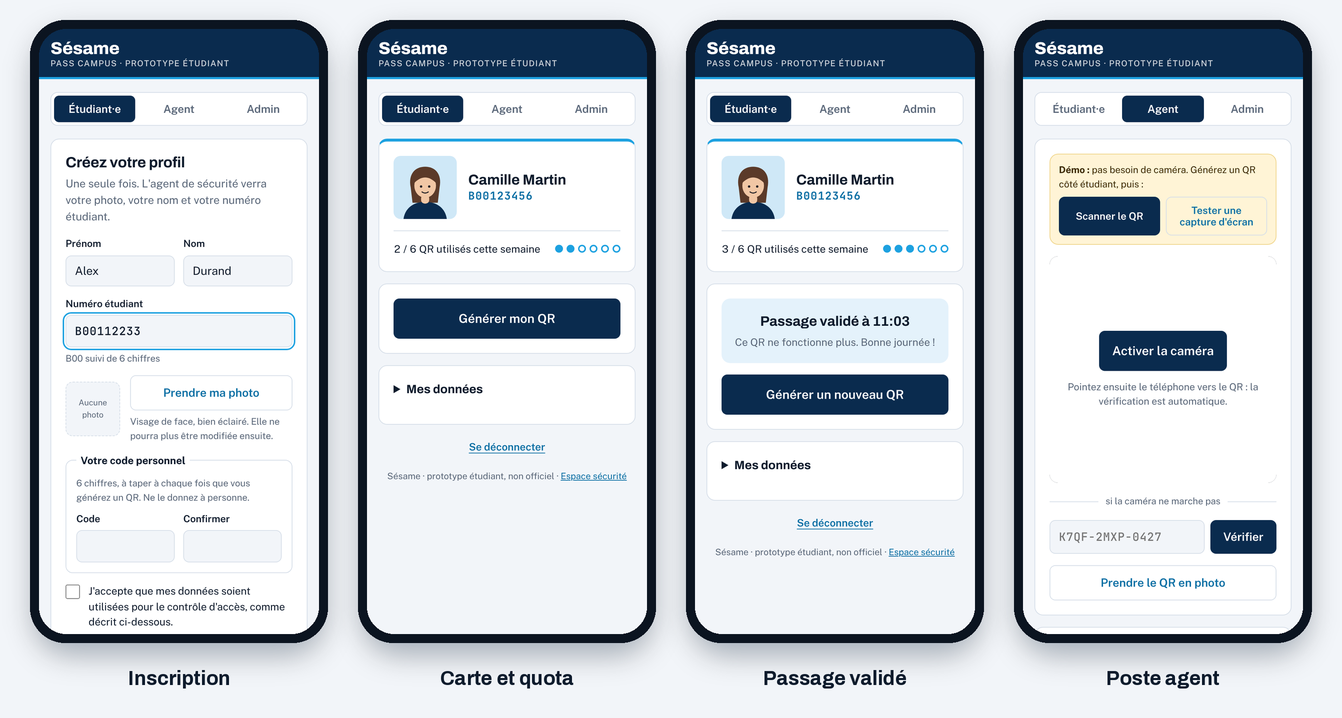
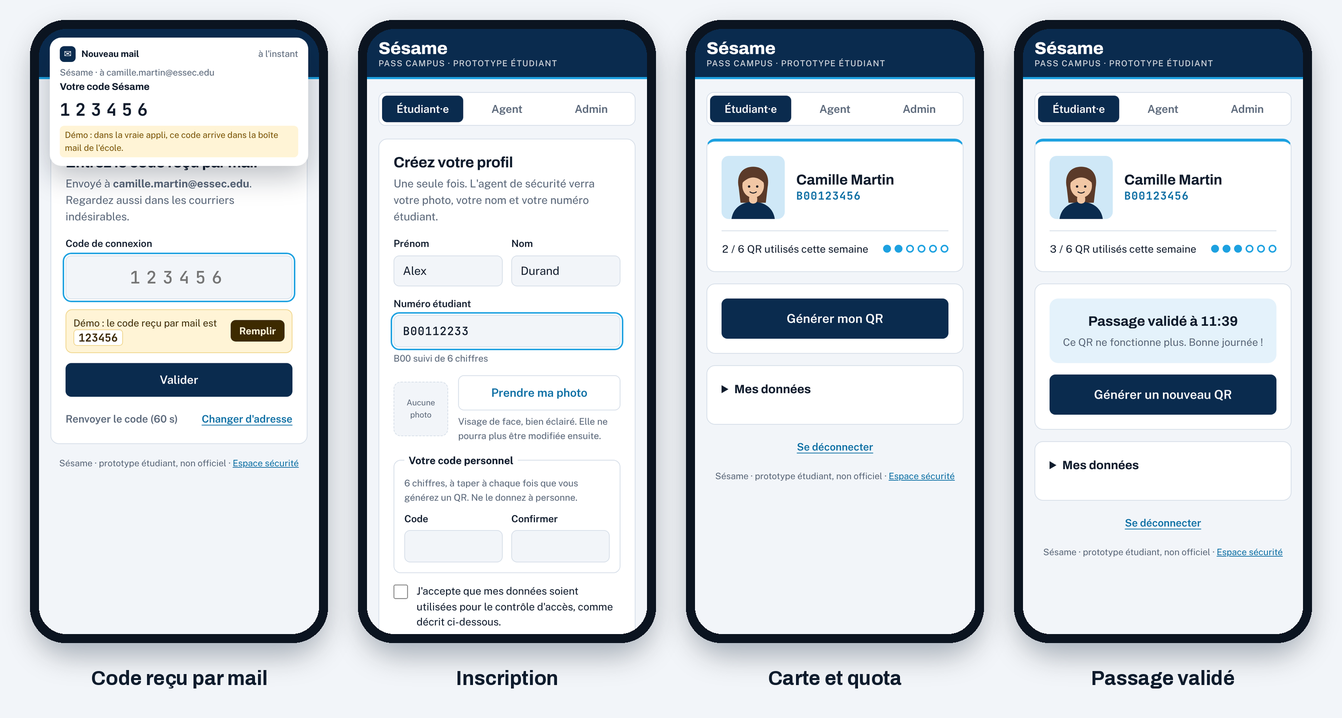
Démo : commence par la connexion par mail (mail simulé à l'écran)
Claude-Session: https://claude.ai/code/session_01P3qaUas985ERpPXCZQ9uaX

diff --git a/site/demo-server.js b/site/demo-server.js
@@ -11,7 +11,7 @@
   "use strict";
   if (!/(^|[?&])demo(=|&|$)/.test(location.search.slice(1))) return;
 
-  var DBK = "sesame-demo.db", AUTHK = "sesame-demo.auth", VERSION = 3;
+  var DBK = "sesame-demo.db", VERSION = 4;
   var DEMO = {
     mailCode: "123456", studentPin: "246810", agentPin: "2580", adminPw: "demo-sesame",
     email: "camille.martin@essec.edu"
@@ -128,12 +128,8 @@
     try { db = JSON.parse(localStorage.getItem(DBK) || "null"); } catch (e) { db = null; }
     if (!db || db.v !== VERSION) {
       db = seed(); save(db);
-      // Camille est déjà connectée : la démo commence directement sur sa carte.
-      try {
-        localStorage.setItem(AUTHK, JSON.stringify({ access_token: "demo|" + DEMO.email, refresh_token: "demo|" + DEMO.email,
-          expires_at: Math.floor(now() / 1000) + 30 * 86400, email: DEMO.email }));
-        localStorage.setItem("sesame-demo.install.dismissed", "1");   // pas de bandeau « installer » en démo
-      } catch (e) {}
+      // La démo commence à l'écran de connexion par mail.
+      try { localStorage.setItem("sesame-demo.install.dismissed", "1"); } catch (e) {}   // pas de bandeau « installer » en démo
     }
     return db;
   }
@@ -419,11 +415,12 @@
     var db = load();
     return new Promise(function (res) { setTimeout(res, 180 + Math.random() * 220); }).then(function () {   // petit délai « réseau »
       if (path === "/auth/v1/otp") {
-        if (!allowed(db, String(body.email || "").toLowerCase())) return {};
+        fakeMail(String(body.email || "").toLowerCase());
         return {};
       }
       if (path === "/auth/v1/verify") {
         if (body.token !== DEMO.mailCode) return Promise.reject({ status: 403, body: { error_code: "otp_expired", msg: "Token has expired or is invalid" }, code: "SERVER" });
+        var mail = document.querySelector(".demo-mail"); if (mail) mail.onclick();   // le mail a servi : on le range
         return session(String(body.email || "").toLowerCase());
       }
       if (path.indexOf("/auth/v1/token") === 0) { var e = emailOf(body.refresh_token); return e ? session(e) : Promise.reject({ status: 400, body: {}, code: "SERVER" }); }
@@ -436,6 +433,23 @@
       if (fn.indexOf("admin_") === 0 && body.p_pw !== db.settings.admin_password) return { error: "bad" };
       return f(db, body, email);
     });
+  }
+
+  /* ---------- faux mail : montre le code qu'un vrai étudiant recevrait ---------- */
+  function fakeMail(to) {
+    var old = document.querySelector(".demo-mail"); if (old) old.remove();
+    var m = document.createElement("div");
+    m.className = "demo-mail";
+    m.setAttribute("role", "status");
+    m.innerHTML = '<div class="demo-mail-head"><span class="demo-mail-ico">✉</span><b>Nouveau mail</b><span>à l\'instant</span></div>'
+      + '<div class="demo-mail-from">Sésame · à ' + to.replace(/[<>&"]/g, "") + '</div>'
+      + '<div class="demo-mail-subj">Votre code Sésame</div>'
+      + '<div class="demo-mail-code">' + DEMO.mailCode + '</div>'
+      + '<div class="demo-mail-note">Démo : dans la vraie appli, ce code arrive dans la boîte mail de l\'école.</div>';
+    m.onclick = function () { m.classList.add("out"); setTimeout(function () { m.remove(); }, 300); };
+    document.body.appendChild(m);
+    setTimeout(function () { m.classList.add("in"); }, 30);
+    setTimeout(function () { if (m.isConnected) m.onclick(); }, 9000);   // disparaît comme une notification
   }
 
   window.SesameDemo = { call: call, reset: reset, creds: DEMO, load: load, hmacHex: hmacHex };
@@ -463,11 +477,11 @@
 
     // Le code de démo est écrit en clair sous chaque champ, avec un bouton pour le remplir
     // (dans le champ lui-même, le texte était coupé sur petit écran).
-    function hintUnder(inputSel, label, value) {
+    function hintUnder(inputSel, label, value, shown) {
       var input = q(inputSel), p = document.createElement("p");
-      input.placeholder = value;
+      if (!shown) input.placeholder = value;
       p.className = "demo-fill";
-      p.innerHTML = "<span>" + label + " <code>" + value + "</code></span>";
+      p.innerHTML = "<span>" + label + " " + (shown || "<code>" + value + "</code>") + "</span>";
       var b = document.createElement("button");
       b.type = "button"; b.textContent = "Remplir";
       b.onclick = function () { input.value = value; input.dispatchEvent(new Event("input")); input.focus(); };
@@ -475,11 +489,10 @@
       var lbl = input.closest("label") || input;
       lbl.parentNode.insertBefore(p, lbl.nextSibling);
     }
+    hintUnder("#e-email", "Démo : connectez-vous comme", DEMO.email, "<b>Camille Martin</b>, étudiante fictive");
     hintUnder("#c-pin", "Démo : le code de Camille est", DEMO.studentPin);
     hintUnder("#pin", "Démo : le PIN agent est", DEMO.agentPin);
     hintUnder("#k-code", "Démo : le code reçu par mail est", DEMO.mailCode);
-    var lead = q("#s-code .lead");
-    if (lead) lead.insertAdjacentHTML("beforeend", "<br><b>Démo :</b> aucun mail n'est envoyé, le code est <b>" + DEMO.mailCode + "</b>.");
 
     // Côté agent : « scanner » le QR affiché côté étudiant, sans caméra.
     var box = document.createElement("div");

diff --git a/site/style.css b/site/style.css
@@ -308,5 +308,18 @@ table.t tr.sel td{background:var(--soft)}
 .demo-scan .btn{font-size:.88rem;padding:10px 8px}
 .demo-fill{display:flex;align-items:center;justify-content:space-between;gap:10px;margin:0;padding:8px 10px;border-radius:9px;
   background:#FFF4D6;border:1px solid #F0D58A;color:#3D2A00;font-size:.85rem}
-.demo-fill code{font-family:var(--f-mono);font-weight:700;font-size:.95rem;background:#fff;border:1px solid #F0D58A;border-radius:5px;padding:0 6px;white-space:nowrap}
+.demo-fill code{font-family:var(--f-mono);font-weight:700;font-size:.95rem;background:#fff;border:1px solid #F0D58A;border-radius:5px;padding:0 6px;overflow-wrap:anywhere}
 .demo-fill button{flex:none;font:700 .85rem var(--f-body);border:0;border-radius:7px;background:#3D2A00;color:#FFF4D6;padding:7px 12px;cursor:pointer}
+/* faux mail de la démo */
+.demo-mail{position:fixed;left:50%;top:12px;z-index:50;width:min(360px,calc(100vw - 24px));transform:translate(-50%,-140%);transition:transform .35s cubic-bezier(.2,.9,.3,1.2);
+  background:#fff;color:#0E1B2C;border-radius:16px;box-shadow:0 14px 40px rgba(10,20,40,.28);padding:12px 14px;cursor:pointer;font-size:.85rem}
+.demo-mail.in{transform:translate(-50%,0)}
+.demo-mail.out{transform:translate(-50%,-140%)}
+.demo-mail-head{display:flex;align-items:center;gap:8px;color:#5A6779;font-size:.78rem}
+.demo-mail-head b{color:#0E1B2C}
+.demo-mail-head span:last-child{margin-left:auto}
+.demo-mail-ico{display:inline-grid;place-items:center;width:22px;height:22px;border-radius:6px;background:#0A2B4E;color:#fff;font-size:.8rem}
+.demo-mail-from{margin-top:6px;color:#5A6779;font-size:.78rem}
+.demo-mail-subj{font-weight:700;font-family:var(--f-display)}
+.demo-mail-code{font-family:var(--f-mono);font-weight:700;font-size:1.5rem;letter-spacing:.3em;margin:4px 0}
+.demo-mail-note{font-size:.75rem;color:#7A5300;background:#FFF4D6;border-radius:6px;padding:4px 7px}

diff --git a/site/demo.html b/site/demo.html
@@ -54,7 +54,7 @@
 
 <main class="in">
   <div class="steps">
-    <div class="step"><span class="n">1</span><b>Côté étudiant·e</b>Cliquez sur « Générer mon QR » et tapez le code personnel de Camille : <code>246810</code>. Le QR change toutes les 10 secondes.</div>
+    <div class="step"><span class="n">1</span><b>Côté étudiant·e</b>Connectez-vous avec l'adresse de Camille : un code arrive par mail (<code>123456</code>). Puis « Générer mon QR » avec son code personnel <code>246810</code>. Le QR change toutes les 10 secondes.</div>
     <div class="step"><span class="n">2</span><b>Côté agent</b>Déverrouillez avec le PIN <code>2580</code>, puis « Scanner le QR ». L'agent voit la photo, le nom et le verdict.</div>
     <div class="step"><span class="n">3</span><b>Essayez de tricher</b>Rescannez : « Déjà utilisé ». Ou « Tester une capture d'écran » : un QR vieux de 30 s est refusé.</div>
   </div>

diff --git a/site/sw.js b/site/sw.js
@@ -1,6 +1,6 @@
 // Sésame — service worker : rend l'appli installable et la charge vite.
 // Les vérifications (QR, PIN) passent toujours par internet : rien n'est mis en cache côté données.
-const CACHE = "sesame-v9";
+const CACHE = "sesame-v10";
 const SHELL = [
   "./", "index.html", "style.css", "common.js", "app.js", "config.js", "admin.html", "admin.js", "demo-server.js", "demo.html",
   "vendor/qrcode.js", "vendor/jsQR.js", "manifest.webmanifest",

diff --git a/README.md b/README.md
@@ -33,8 +33,11 @@ Une carte étudiante 100 % numérique serait idéale, mais elle est hors de port
 
 La démo affiche les deux téléphones côte à côte, avec des profils fictifs. Rien n'est envoyé en ligne.
 
+La démo commence comme pour un vrai étudiant : connexion avec l'adresse mail de l'école, puis le code reçu par mail. Ici, le mail est simulé à l'écran.
+
 | | Code |
 |---|---|
+| Code reçu par mail | `123456` |
 | Code personnel de Camille (étudiante) | `246810` |
 | PIN du poste agent | `2580` |
 | Espace sécurité (admin) | `demo-sesame` |
